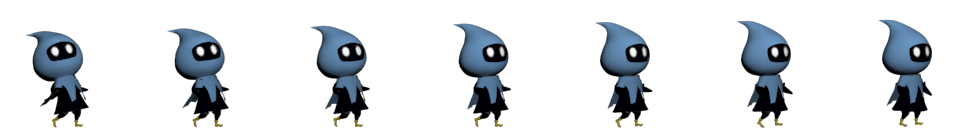
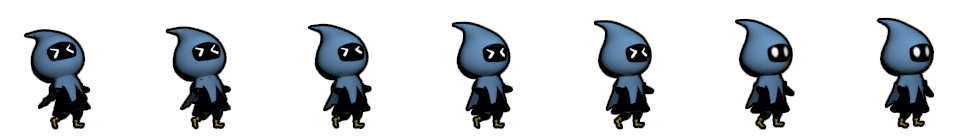
Soldierクラス：アニメーションが正常に再生されない不具合を解消しました

diff --git a/AMG08_INNOCENT_REAPER/SoldierDoll.cpp b/AMG08_INNOCENT_REAPER/SoldierDoll.cpp
@@ -114,7 +114,7 @@ namespace inr {
 			{ enemy::blue::SOLDIER_WAKEUP, {17 * 3, 0}},
 			{ enemy::blue::SOLDIER_IDOL, {11 * 3, 0}},
 			{ enemy::blue::SOLDIER_PATROL, {13 * 3, 13 * 3}},
-			{ enemy::blue::SOLDIER_ESCAPE, {17 * 3, 0}}
+			{ enemy::blue::SOLDIER_ESCAPE, {13 * 3, 0}}
 		};
 
 		PatrolOn();
